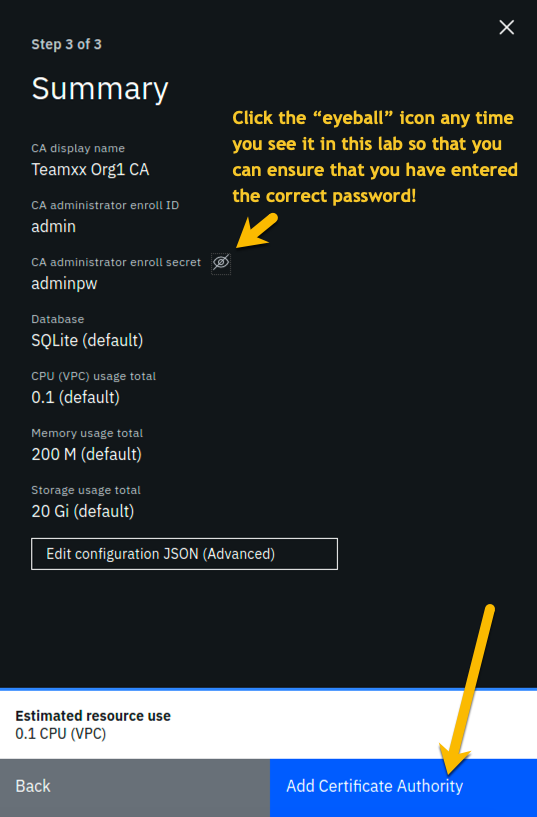
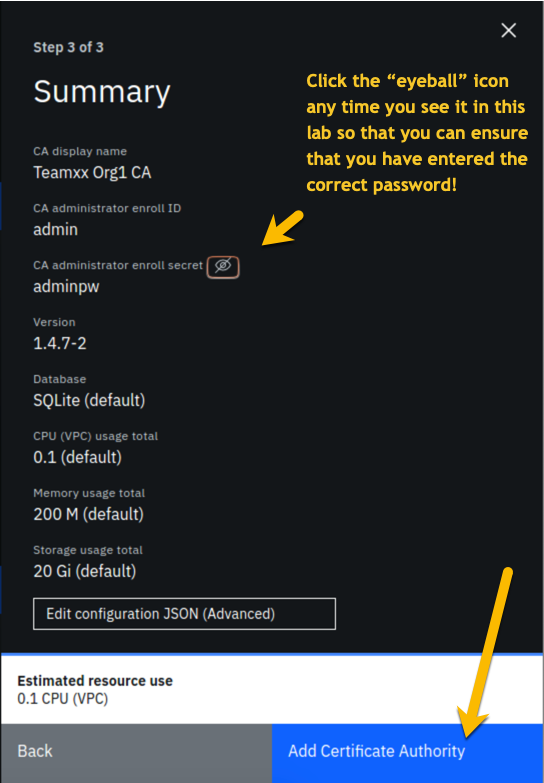
update lab for IBP 2.5.0

diff --git a/docs/ibpdeploy.md b/docs/ibpdeploy.md
@@ -1,29 +1,18 @@
-# IBM Blockchain Platform v2.1.3 Lab Part 2 - Deploying a Smart Contract
+# IBM Blockchain Platform v2.5.0 Lab Part 2 - Deploying a Smart Contract
 
-This lab will walk you through deploying the smart contract that you worked with from the VSCode labs: namely, `commercial-paper`. This lab assumes that you have successfully completed the [IBM Blockchain Platform v2.1.3 Lab Part 1 - Create a Blockchain Network](ibpconsole.md). If you have not completed part 1, you must do so before continuing with this lab.
+This lab will walk you through deploying the smart contract that you worked with from the VSCode labs: namely, `commercial-paper`. This lab assumes that you have successfully completed the [IBM Blockchain Platform v2.5.0 Lab Part 1 - Create a Blockchain Network](ibpconsole.md). If you have not completed part 1, you must do so before continuing with this lab.
 
-## Section 1: Export Commercial Paper Smart Contract
+## Section 1: Download the Commercial Paper Smart Contract package
 
-Remember from the VSCode labs, you have already packaged up the commercial paper (`papercontract@0.0.4`) smart contract. Now you will export the contract to its own smart contract package (*in .cds format*) and deploy it to your IBM Blockchain Platform network.
+**Step 1.1:** You need to download the .cds package from here: [commercial-paper](files/papercontract@0.0.4.cds). If you are not prompted for a location in which to save it, then your browser is probably saving it at a default location, which is probably `/home/blockchain/Downloads`.
 
-!!! note
-        If you did not complete the VSCode labs, you can still continue with this lab. You need to download the .cds package here: [commercial-paper](files/papercontract@0.0.4.cds) and save it to your lab image under the `/home/blockchain/` directory. Then you can skip to Section 2 of this lab.
+## Section 2: Install Commercial Paper Contract to your Blockchain Network
 
-**Step 1.1:** Go back to your VSCode editor, and go to the IBM Blockchain Platform Extension view. Under the *Smart Contract Packages* panel, right-click on **papercontract@0.0.4** and select `Export Package`:
-
-![image](images/ibpdeploy/ibpdeploy1.png)
-
-**Step 1.2:** Select the location `/home/blockchain/`, and click **Enter**. Upon successful exporting, you will see a message like below:
-
-![image](images/ibpdeploy/ibpdeploy4.png)
-
-## Section 2: Install Paper Contract to your Blockchain Network
-
-**Step 2.1:** Go back to your IBM Blockchain Platform Console at your assigned URL in your Firefox browser. Click on the *Smart Contracts* icon in the icon palette on the left, and in the *Smart contracts* panel, click the blue **Install Smart Contract** button:
+**Step 2.1:** Click on the *Smart Contracts* icon in the icon palette on the left, and in the *Smart contracts* panel, click the blue **Install Smart Contract** button:
 
 ![image](images/ibpdeploy/ibpdeploy5.png)
 
-**Step 2.2:** In the *(Step 1 of 2) Install Smart Contract* side panel, using the blue **Add File** button, upload the `papercontract@0.0.4.cds` package (from the location `/home/blockchain`), and click the **Next** button. The screenshot that follows shows that the name and version of the smart contract have replaced the *Add File* button:
+**Step 2.2:** In the *(Step 1 of 2) Install Smart Contract* side panel, using the blue **Add File** button, upload the `papercontract@0.0.4.cds` package (from the location `/home/blockchain/Downloads` or from wherever you saved it), and click the **Next** button. The screenshot that follows shows that the name and version of the smart contract have replaced the *Add File* button:
 
 ![image](images/ibpdeploy/ibpdeploy6.png)
 
@@ -88,7 +77,7 @@ Now you need to register a client user to use to enroll application identities f
 |-----------|-----|--------|
 |Enroll ID|**app-dev**||
 |Enroll secret|**app-devpw**|click the "eye" icon to see the password|
-|Type|**Client**|This will be populated for you|
+|Type|**client**|This will be populated for you|
 
 **Step 4.4:** In the *Register User (Step 2 of 2)* sidebar panel, just click the **Register user** button.
 
@@ -108,18 +97,19 @@ Now we will register a client user for enrolling application identities for Org2
 
 The connection profile is a JSON file that describes all the connection endpoints, MSP information, channel information and certificate information required to connect to your organization's peer. A client application wishing to invoke transactions against a smart contract would require this file to obtain the necessary information needed to make that connection. Without IBM Blockchain Platform, this is a file you would put together yourself using existing sample connection profiles available in the Hyperledger Fabric community. With the IBM Blockchain Platform, you can download a ready-made file from the IBM Blockchain Platform Console.
 
-**Step 6.1:** Select the **Smart contracts** icon from the icon palette on the left, scroll down to the *Instantiated smart contracts* section, click on the three dots to the right of `papercontract` and click **Connect with SDK**:
+**Step 6.1:** Select the **Organizations** icon from the icon palette on the left, then click the **Team*xx* Org1 MSP** tile, where *xx* is your two-digit team ID:
 
 ![image](images/ibpdeploy/ibpdeploy27.png)
 
-**Step 6.2.** In the *Connect with SDK* sidebar panel, you want to select the following (Remember to replace the `xx` below with your team number):
+**Step 6.2:** Click the blue **Create connection profile** button:
 
-* MSP for connection: `Teamxx Org1 MSP`
-* Certificate Authority: `TeamXX Org1 CA`
+![image](images/ibpdeploy/ibpdeploy275.png)
 
-And then click on the **Download connection profile** button at the bottom. You may need to scroll down in the sidebar panel to see this button. Use the file save dialog to save the profile under its default name of `teamxx-channel1_papercontract_profile.json` (where *xx* is your two-digit team ID). Keep track of where you saved this profile, as you will be using it in the next section. 
+**Step 6.3.** In the *Create connection profile* sidebar panel, select your **Team*xx* Org1 Peer**, where *xx* is your two-digit team ID, and click the blue **Download connection profile** button:
 
-Click the **Close** button to close the sidebar panel after you have downloaded the connection profile.
+![image](images/ibpdeploy/ibpdeploy278.png)
+
+Use the file save dialog to save the profile under its default name of `teamxxorg1msp_profile.json` (where *xx* is your two-digit team ID). Keep track of where you saved this profile, as you will be using it in the next section.
 
 ## Section 7: Create a new Gateway in VSCode IBM Blockchain Platform Extension
 
@@ -158,13 +148,13 @@ Now you can use that connection profile you just downloaded to create a new gate
 
 ![image](images/ibpdeploy/ibpdeploy32.png)
 
-**Step 8.4:** Type **isabella** as the name for the identity, and press **Enter**:
-
-![image](images/ibpdeploy/ibpdeploy33.png)
-
-**Step 8.5:** Type **team*xx*org1msp** as the MSPID, where *xx* is your two-digit team ID, and press **Enter**:
+**Step 8.4:** Type **team*xx*org1msp** as the MSPID, where *xx* is your two-digit team ID, and press **Enter**:
 
 ![image](images/ibpdeploy/ibpdeploy34.png)
+
+**Step 8.5:** Type **isabella** as the name for the identity, and press **Enter**:
+
+![image](images/ibpdeploy/ibpdeploy33.png)
 
 **Step 8.6:** Pick **Select a gateway and provide an enrollment ID and secret**:
 
@@ -251,4 +241,4 @@ Example:
 
 **Step 10.9:** OPTIONAL: you can submit additional transactions through VSCode, and watch the block height increase and look at the transaction in the IBM Blockchain Platform Console.
 
-Congratulations!! You've now successfully enrolled an application identity and used it to invoke transactions against a smart contract deployed to IBM Blockchain Platform v2.1.3!
+Congratulations!! You've now successfully enrolled an application identity and used it to invoke transactions against a smart contract deployed to IBM Blockchain Platform v2.5.0!

diff --git a/docs/ibpconsole.md b/docs/ibpconsole.md
@@ -1,4 +1,4 @@
-# IBM Blockchain Platform v2.1.3 Lab Part 1 - Create a Blockchain Network
+# IBM Blockchain Platform v2.5.0 Lab Part 1 - Create a Blockchain Network
 
 ## Section 1: Create a Blockchain Network lab overview
 
@@ -297,6 +297,7 @@ A peer node is where smart contracts- in essence, your blockchain business trans
 |Peer enroll ID|**peer1**|Select from dropdown list|
 |Peer enroll secret|**peer1pw**||
 |Organization MSP|**Team*xx* Org1 MSP**|Select from dropdown list, where *xx* is your two-digit team ID|
+|Fabric version|**1.4.7-2**|Select from dropdown list|
 |TLS CSR hostname||leave blank|
 
 ![image](images/ibpconsole/0300_AddOrg1PeerSidebar3.png)
@@ -315,6 +316,7 @@ A peer node is where smart contracts- in essence, your blockchain business trans
 |Peer enroll ID|**peer1**|Set in *Step 3 of 5* panel|
 |Peer enroll secret|**peer1pw**|Set in *Step 3 of 5* panel|
 |Organization MSP|**Team*xx* Org1 MSP**|Set in *Step 3 of 5* panel|
+|Version|**1.4.7-2**|Set in *Step 3 of 5* panel|
 |CPU (VPC) usage total|**1.6**|Not set by you- calculated from defaults|
 |Memory usage total|**2,800M**|Not set by you- calculated from defaults|
 |Storage usage total|**200Gi**|Not set by you- calculated from defaults|
@@ -548,6 +550,7 @@ Our star is running out of leg room all cramped up by the circle in our drawing 
 |Ordering service enroll ID|**os1**|Select from dropdown list. It will not be the default presented to you, so make sure you select it.|
 |Ordering service enroll secret|**os1pw**||
 |Organization MSP|**Team*xx* Ordering Service MSP**|Select from dropdown list, where *xx* is your two-digit team ID|
+|Fabric version|**1.4.7-2**|Select from dropdown list|
 
 ![image](images/ibpconsole/0620_AddOrdererSidebar3.png)
 
@@ -565,6 +568,7 @@ Our star is running out of leg room all cramped up by the circle in our drawing 
 |Ordering service enroll ID|**os1**|Set in *Step 3 of 5* panel|
 |Ordering service enroll secret|**os1pw**|Set in *Step 3 of 5* panel|
 |Organization MSP|**Team*xx* Ordering Service MSP**|Set in *Step 3 of 5* panel|
+|Version|**1.4.7-2**|Set in *Step 3 of 5* panel|
 |CPU (VPC) usage total|**0.35**|Not set by you- calculated from defaults|
 |Memory usage total|**700 M**|Not set by you- calculated from defaults|
 |Storage usage total|**100 Gi**|Not set by you- default value|
@@ -662,7 +666,7 @@ The line between the ordering service node and your first peer organization node
 !!!note
        If you entered some values incorrectly, click the *Back* button as necessary to navigate back through the screen flow until you get to the screen(s) necessary to correct your mistakes, and then navigate forward again with the *Next* button until you return to this *Review MSP information* screen and verify you have entered the expected values. Ask an instructor for help if necessary.
 
-When you have ensured that you have entered the right values, click the blue **Create MSP definition** button in the lower right of your screen:
+When you have ensured that you have entered the right values, click the blue **Create channel** button in the lower right of your screen:
 
 ![image](images/ibpconsole/0760_CreateChannelReview.png)
 
@@ -703,7 +707,7 @@ You are changing hats again, this time from your **Team*xx* Ordering Service** a
 We will define the second peer organization now.  The pattern is identical to what you did earlier for the first organization.
 
 !!! Note
-        This will be the third Certificate Authority you define in this lab, so we will show fewer screenshots of repetitive tasks, in this section and in subsequent sections.
+        This will be the third Certificate Authority you define in this lab, so we will show fewer screenshots of repetitive tasks in this section and in subsequent sections.
 
 **Step 14.1:** Click the **Nodes** icon on the icon palette on the left, and then click the blue **Add Certificate Authority** button.
 
@@ -861,6 +865,7 @@ The most useful German phrase I know is *noch einmal Bier, bitte!*, which transl
 |Peer enroll secret|**peer2pw**||
 |Organization MSP|**Team*xx* Org2 MSP**|Select from dropdown list, where *xx* is your two-digit team ID|
 |TLS CSR hostname||leave blank|
+|Fabric version|**1.4.7-2**|Select from dropdown list|
 
 **Step 17.5:** On the *Associate Identity* screen, select **Team*xx* Org2 MSP Admin**, where *xx* is your two-digit team ID, for the *Peer administrator identity* field, and click **Next**.
 
@@ -874,6 +879,7 @@ The most useful German phrase I know is *noch einmal Bier, bitte!*, which transl
 |Peer enroll ID|**peer2**|Set in *Step 3 of 5* panel|
 |Peer enroll secret|**peer2pw**|Set in *Step 3 of 5* panel|
 |Organization MSP|**Team*xx* Org2 MSP**|Set in *Step 3 of 5* panel|
+|Version|**1.4.7-2**|Set in *Step 3 of 5* panel|
 |CPU (VPC) usage total|**1.6**|Not set by you- calculated from defaults|
 |Memory usage total|**2,800M**|Not set by you- calculated from defaults|
 |Storage usage total|**200Gi**|Not set by you- calculated from defaults|
